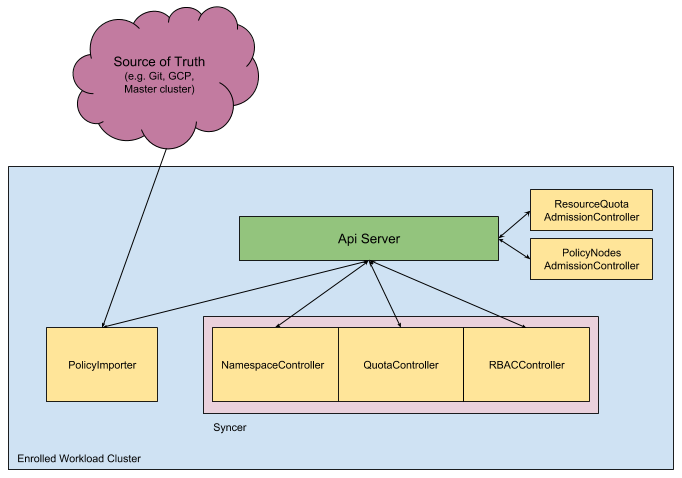
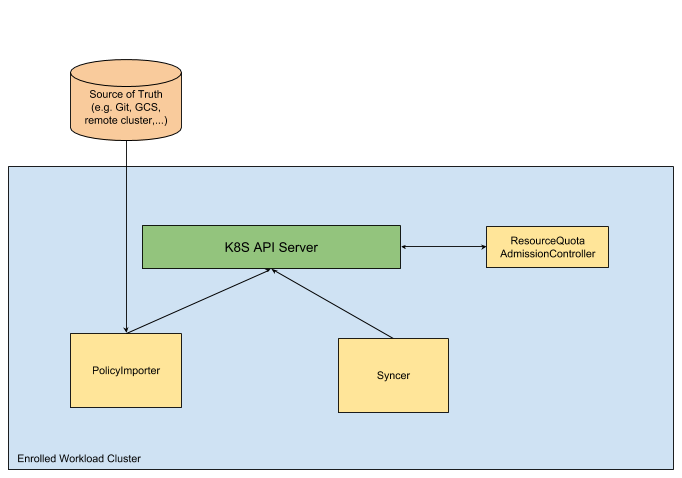
Update system diagram to match reality.
Preview:
https://storage.cloud.google.com/stolos-dev/docs/frankf/1542406146/nomos-docs.zip

Bug: 118398202

Changed region(s): [[0.0616, 0.3808, 0.9545, 0.9079], [0.0924, 0.0, 0.4003, 0.3222], [0.6158, 0.5858, 0.6466, 0.6151]]

diff --git a/docs/user/system_overview.md b/docs/user/system_overview.md
@@ -11,7 +11,7 @@ PolicyImporter is an abstraction for a controller that consumes policy
 definitions from an external source of truth and builds a canonical
 representation of the hierarchy using cluster-level CRD(s) defined by GKE Policy
 Management. GKE Policy Management can be extended to support different sources
-of truth (e.g. Git, GCP, Active Directory) using different implementations of
+of truth (e.g. Git, GCS, Active Directory) using different implementations of
 this abstraction. Note that we treat this canonical representation as internal
 implementation which should not be directly consumed by users.
 
@@ -30,19 +30,15 @@ GKE Policy Management defines three custom resources:
 
 ## Syncer
 
-A set of controllers (currently packaged as a single binary) that consume the
-canonical representation of the hierarchy produced by PolicyImporter and perform
-CRUD on namespaces and [sync-enabled](system_config.md#Sync) resources.
+A controller (currently packaged as a single binary) that consumes the canonical
+representation of the hierarchy produced by PolicyImporter and performs CRUD on
+namespaces and [sync-enabled](system_config.md#Sync) resources.
 
 ## ResourceQuotaAdmissionController
 
 A ValidatingAdmissionWebhook that enforces hierarchical quota policies which
 provides hierarchical quota on top of the existing ResourceQuota admission
-controller.
-
-## PolicyNodesAdmissionController
-
-A ValidatingAdmissionWebhook that ensures PolicyNode objects represent a valid
-[tree](https://en.wikipedia.org/wiki/Tree_\(data_structure\)#Definition).
+controller. This is an optional component if the user chooses not to use
+[hierarchical Resource Quota feature](rq.md).
 
 [< Back](../../README.md)
